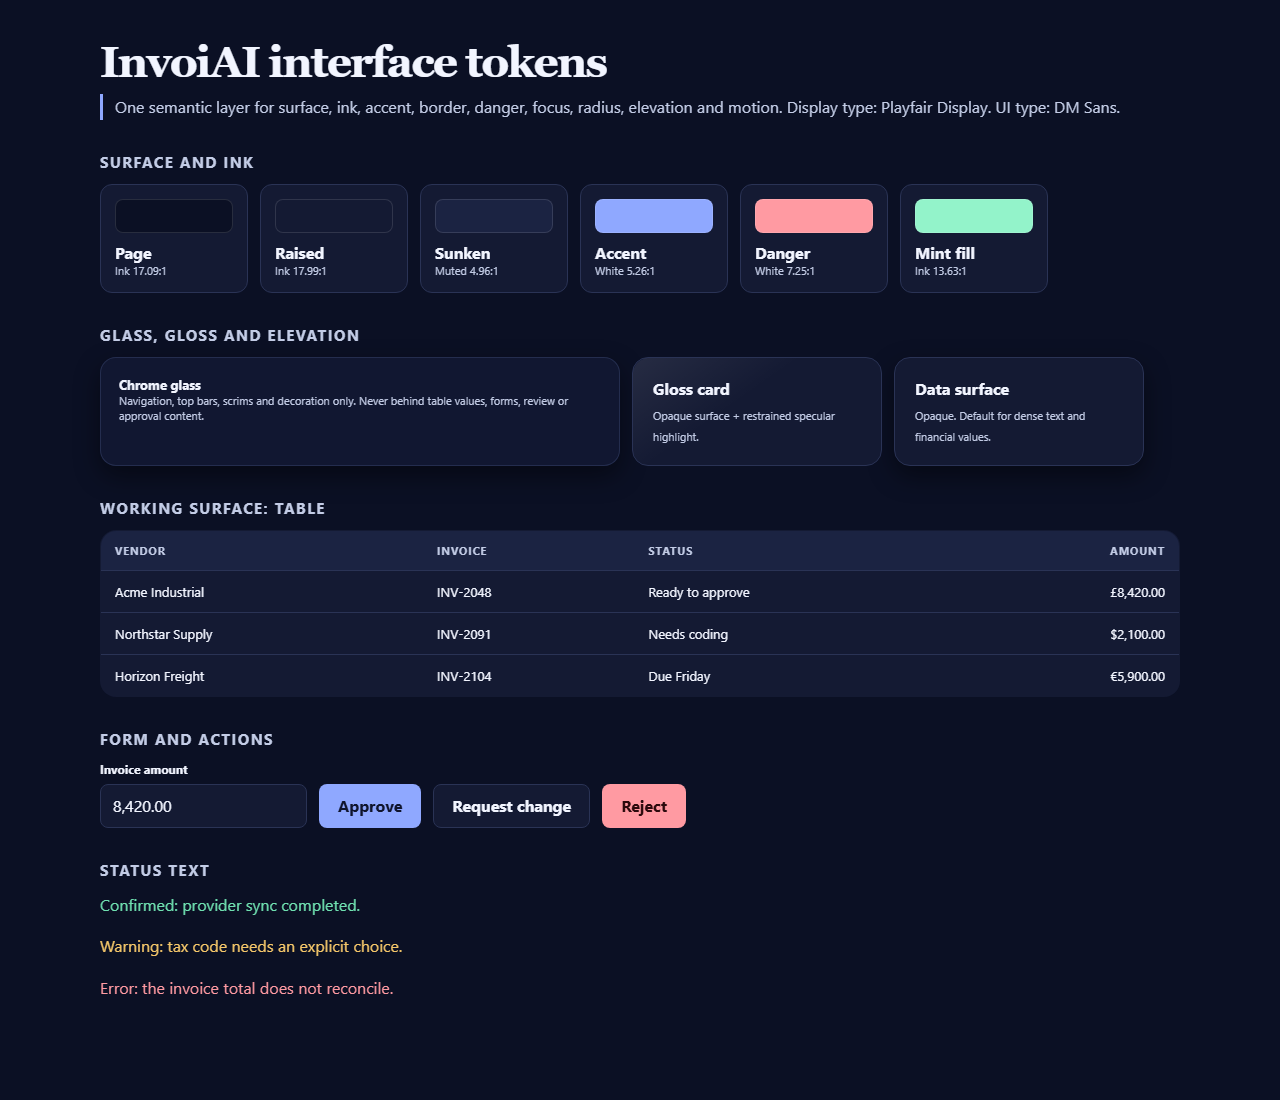
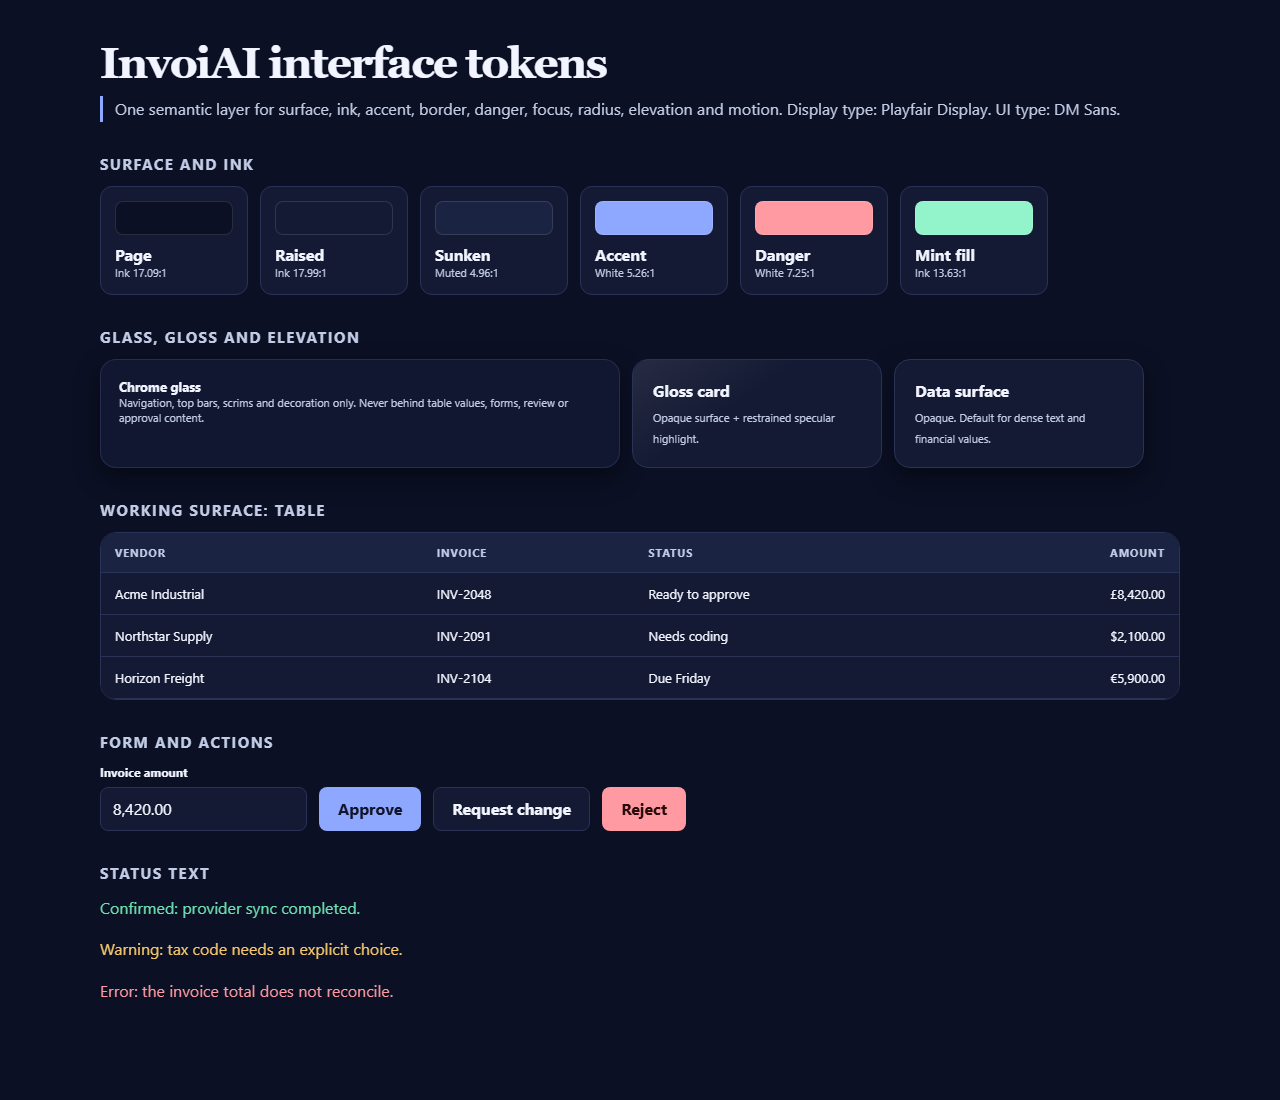
feat(design): apply ticket 13 dashboard design system

diff --git a/frontend/src/app/globals.css b/frontend/src/app/globals.css
@@ -624,9 +624,6 @@ CSS_BEGIN
 .dash-topbar {
   position: sticky; top: 0; z-index: 30;
   height: 56px; padding: 0 32px;
-  background: rgba(247,244,238,0.92);
-  backdrop-filter: blur(12px);
-  border-bottom: 0.5px solid #E2DDD4;
   display: flex; align-items: center; justify-content: space-between;
 }
 .topbar-left { display: flex; align-items: center; gap: 12px; }
@@ -2226,7 +2223,7 @@ a:focus-visible, button:focus-visible, [tabindex]:focus-visible {
 .user-pill:hover { background: rgba(255,255,255,.08); }.user-name { color: #fff; }.user-plan, .logout-btn { color: #B9C6E7; }.avatar { background: #93F3CA; color: #10152D; }.plan-dot { background: #93F3CA; }
 
 .dash-main { background: #F4F7FF; }.dash-main.expanded { margin-left: 76px; }
-.dash-topbar { height: 72px; padding: 0 36px; background: rgba(244,247,255,.88); border-color: rgba(16,21,45,.08); backdrop-filter: blur(18px); }
+.dash-topbar { height: 72px; padding: 0 36px; }
 .topbar-toggle, .topbar-hamburger { width: 40px; height: 40px; border: 1px solid #DCE3F7; border-radius: 11px; background: #fff; color: #10152D; display: inline-grid; place-items: center; }
 .usage-pill { padding: 7px 12px; background: #EAFBF3; color: #176A4A; font-weight: 700; }
 .dash-body { max-width: 1540px; margin: 0 auto; padding: 38px; }
@@ -2356,3 +2353,4 @@ a:focus-visible, button:focus-visible, [tabindex]:focus-visible {
 .payment-release-list { overflow:hidden; border:1px solid var(--ia-line); border-radius:18px; background:#fff; box-shadow:0 10px 30px rgba(18,43,77,.055); }.payment-release-list-head { display:grid; grid-template-columns:minmax(260px,1.25fr) minmax(180px,.75fr); padding:13px 20px; border-bottom:1px solid #e6ebf2; background:#f7f9fc; color:#718099; font-size:10px; font-weight:800; letter-spacing:.1em; text-transform:uppercase; }.payment-release-list-head span:last-child { grid-column:2 / 3; }.payment-release-row { display:grid; grid-template-columns:minmax(260px,1.25fr) minmax(110px,.5fr) minmax(190px,.9fr) auto; align-items:center; gap:18px; padding:18px 20px; border-bottom:1px solid #edf0f5; transition:background .18s ease; }.payment-release-row:last-child { border-bottom:0; }.payment-release-row:hover { background:#fbfcff; }.payment-release-bill { display:grid; grid-template-columns:minmax(120px,1fr) auto; gap:3px 12px; align-items:baseline; min-width:0; }.payment-release-vendor { overflow:hidden; text-overflow:ellipsis; white-space:nowrap; color:var(--ia-ink); font-size:14px; font-weight:750; }.payment-release-invoice { color:#5272aa; font-size:12px; font-weight:700; text-decoration:none; }.payment-release-invoice:hover { color:#193f82; text-decoration:underline; }.payment-release-due { grid-column:1 / -1; color:#7c899a; font-size:12px; }.payment-release-amount { color:var(--ia-ink); font-size:14px; letter-spacing:-.02em; white-space:nowrap; }.payment-release-status { display:grid; justify-items:start; gap:5px; min-width:0; }.payment-release-status > span:last-child { max-width:100%; overflow:hidden; color:#8b5261; font-size:11px; line-height:1.35; text-overflow:ellipsis; white-space:nowrap; }.payment-release-actions { display:flex; justify-content:flex-end; align-items:center; gap:7px; }.payment-release-actions .btn-quiet { display:inline-flex; align-items:center; gap:5px; }.payment-release-actions .btn-quiet span { font-size:12px; }
 @media (max-width:900px) { .payment-release-row { grid-template-columns:1fr auto; gap:13px; }.payment-release-status { grid-column:1 / 2; }.payment-release-actions { grid-column:2 / 3; grid-row:2; }.payment-release-list-head { grid-template-columns:1fr; }.payment-release-list-head span:last-child { display:none; } }
 @media (max-width:620px) { .payment-queue-summary { grid-template-columns:1fr; }.payment-summary-card { min-height:98px; }.payment-release-row { padding:16px; }.payment-release-bill { grid-template-columns:1fr; gap:3px; }.payment-release-amount { align-self:start; }.payment-release-actions .btn-quiet span { display:none; }.payment-release-actions .btn-quiet { padding:8px; }.payment-release-actions .btn-danger-outline { padding:7px 9px; font-size:11px; } }
+.dash-body .ds-data-surface { background: var(--surface-raised); border: 1px solid var(--border-subtle) !important; box-shadow: var(--elevation-1); }

diff --git a/design-system/invoiai/evidence/token-preview.html b/design-system/invoiai/evidence/token-preview.html
@@ -14,7 +14,7 @@
       background: var(--surface-page);
       color: var(--ink-primary);
     }
-    h1 { font-family: var(--font-display); font-size: 44px; line-height: 1; letter-spacing: -.04em; margin: 0 0 10px; }
+    h1 { max-width: 100%; font-family: var(--font-display); font-size: clamp(28px, 4vw, 44px); line-height: 1.05; letter-spacing: -.04em; margin: 0 0 10px; }
     h2 { font-size: 15px; letter-spacing: .1em; text-transform: uppercase; color: var(--ink-secondary); margin: 32px 0 12px; }
     p { color: var(--ink-secondary); line-height: 1.6; margin: 0 0 16px; }
     .row { display: flex; gap: 12px; flex-wrap: wrap; }
@@ -25,7 +25,8 @@
     .glass .label { font-size: 13px; font-weight: 700; color: var(--ink-primary); }
     .gloss-card { padding: 20px; border-radius: var(--radius-lg); border: 1px solid var(--border-subtle); background: var(--surface-raised); width: 250px; }
     .gloss-card strong { display: block; font-size: 16px; margin-bottom: 4px; }
-    table { width: 100%; border-collapse: collapse; background: var(--surface-raised); border: 1px solid var(--border-subtle); border-radius: var(--radius-lg); overflow: hidden; }
+    .table-scroll { max-width: 100%; overflow-x: auto; border: 1px solid var(--border-subtle); border-radius: var(--radius-lg); }
+    table { width: 100%; min-width: 620px; border-collapse: collapse; background: var(--surface-raised); overflow: hidden; }
     th, td { text-align: left; padding: 12px 14px; border-bottom: 1px solid var(--border-subtle); font-size: 13px; }
     th { background: var(--surface-sunken); color: var(--ink-secondary); font-size: 11px; letter-spacing: .08em; text-transform: uppercase; }
     td.num { text-align: right; font-variant-numeric: tabular-nums; }
@@ -37,12 +38,16 @@
     .secondary { background: var(--surface-raised); border-color: var(--border-subtle); color: var(--ink-primary); }
     .danger { background: var(--danger); color: var(--on-danger); }
     .note { border-left: 3px solid var(--accent-primary); padding-left: 12px; }
-    .specimen { max-width: 1080px; margin: 0 auto; }
+    .specimen { width: 100%; max-width: 1080px; margin: 0 auto; }
+    .row { width: 100%; min-width: 0; }
     [data-ds-theme="dark"] .chip { border-color: rgba(255,255,255,.12); }
     @media (max-width: 560px) {
       body { padding: 20px; }
-      h1 { font-size: 34px; }
-      .swatch { width: calc(50% - 6px); }
+      h1 { font-size: clamp(27px, 8vw, 32px); }
+      .specimen { width: min(100%, 350px); }
+      .row { display: grid; grid-template-columns: minmax(0, 1fr); }
+      .row > * { width: 100%; min-width: 0; max-width: 100%; }
+      .swatch, .gloss-card { width: 100%; }
     }
   </style>
 </head>
@@ -69,14 +74,16 @@
     </div>
 
     <h2>Working surface: table</h2>
-    <table>
-      <thead><tr><th>Vendor</th><th>Invoice</th><th>Status</th><th style="text-align:right">Amount</th></tr></thead>
-      <tbody>
-        <tr><td>Acme Industrial</td><td>INV-2048</td><td>Ready to approve</td><td class="num">£8,420.00</td></tr>
-        <tr><td>Northstar Supply</td><td>INV-2091</td><td>Needs coding</td><td class="num">$2,100.00</td></tr>
-        <tr><td>Horizon Freight</td><td>INV-2104</td><td>Due Friday</td><td class="num">€5,900.00</td></tr>
-      </tbody>
-    </table>
+    <div class="table-scroll" role="region" aria-label="Invoice examples" tabindex="0">
+      <table>
+        <thead><tr><th>Vendor</th><th>Invoice</th><th>Status</th><th style="text-align:right">Amount</th></tr></thead>
+        <tbody>
+          <tr><td>Acme Industrial</td><td>INV-2048</td><td>Ready to approve</td><td class="num">£8,420.00</td></tr>
+          <tr><td>Northstar Supply</td><td>INV-2091</td><td>Needs coding</td><td class="num">$2,100.00</td></tr>
+          <tr><td>Horizon Freight</td><td>INV-2104</td><td>Due Friday</td><td class="num">€5,900.00</td></tr>
+        </tbody>
+      </table>
+    </div>
 
     <h2>Form and actions</h2>
     <div class="row" style="align-items:flex-end">

diff --git a/frontend/src/app/dashboard/page.tsx b/frontend/src/app/dashboard/page.tsx
@@ -78,7 +78,7 @@ export default function DashboardPage() {
           object's own existence avoids rendering "undefined/undefined
           documents" when there's genuinely no usage data yet. */}
       {user?.usage?.limit != null && (
-        <div className="card" style={{ marginBottom: 24 }}>
+        <div className="card ds-data-surface" style={{ marginBottom: 24 }}>
           <div className="card-header">
             <span className="card-title">Monthly usage</span>
             <span style={{ fontSize: 12, color: "#6B6860" }}>
@@ -119,7 +119,7 @@ export default function DashboardPage() {
       {/* Main grid */}
       <div className="dash-grid">
         {/* Recent documents */}
-        <div className="card">
+        <div className="card ds-data-surface">
           <div className="card-header">
             <span className="card-title">Recent documents</span>
             <Link href="/dashboard/history" className="card-action">View all →</Link>
@@ -139,7 +139,7 @@ export default function DashboardPage() {
         {/* Right column */}
         <div>
           {/* Keep the first paint lightweight. Vendor/AP analytics are loaded inside their own modules. */}
-          <div className="card" style={{ marginBottom: 20 }}>
+          <div className="card ds-data-surface" style={{ marginBottom: 20 }}>
             <div className="card-header">
               <span className="card-title">Document activity</span>
               <Link href="/dashboard/history" className="card-action">Open history →</Link>

diff --git a/frontend/src/components/layout/DashboardLayout.tsx b/frontend/src/components/layout/DashboardLayout.tsx
@@ -177,7 +177,7 @@ export default function DashboardLayout({ children }: { children: React.ReactNod
       {/* ── Main ── */}
       <main className={`dash-main${collapsed ? " expanded" : ""}`}>
         {/* Topbar */}
-        <div className="dash-topbar">
+        <div className="dash-topbar ds-glass">
           <div className="topbar-left">
             <button
               className="topbar-hamburger"

diff --git a/design-system/invoiai/MASTER.md b/design-system/invoiai/MASTER.md
@@ -92,9 +92,10 @@ panel, never behind the financial value a user is deciding on.
 
 The dashboard (`/dashboard`) is the representative product screen:
 
-- Topbar and sidebar use the glass primitive with an opaque fallback.
+- The topbar uses `.ds-glass`; the dark sidebar stays opaque so its navigation labels retain contrast.
 - Overview module cards use `.ds-gloss` over an opaque card.
-- All surfaces, ink, borders, radii and shadows resolve from the token layer.
+- Usage, document and activity cards use `.ds-data-surface`; data, form, review and approval content never sits on glass.
+- The token primitives and focus ring are global; legacy screen colors remain in migration and are not described as tokenized until converted.
 - Keyboard focus uses the shared 3px ring; reduced motion collapses
   transitions to 0.01ms.
 
@@ -129,9 +130,9 @@ The dashboard (`/dashboard`) is the representative product screen:
 - Specimen: `design-system/invoiai/evidence/token-preview.html`
 - Screenshots: `design-system/invoiai/evidence/desktop-light.png`,
   `desktop-dark.png`, `mobile-light.png`, `reduced-motion.png`
-- Checks: contrast table above; `npm run type-check` and `npm run build` pass;
-  keyboard focus uses the shared ring; reduced motion collapses transitions;
-  mobile specimen renders at 390px.
+- Checks: contrast table above; keyboard focus uses the shared ring; reduced
+  motion collapses transitions; mobile specimen is captured at 520px, where
+  the mobile breakpoint is active and the invoice table scrolls independently.
 
 ## Known follow-ups
 
